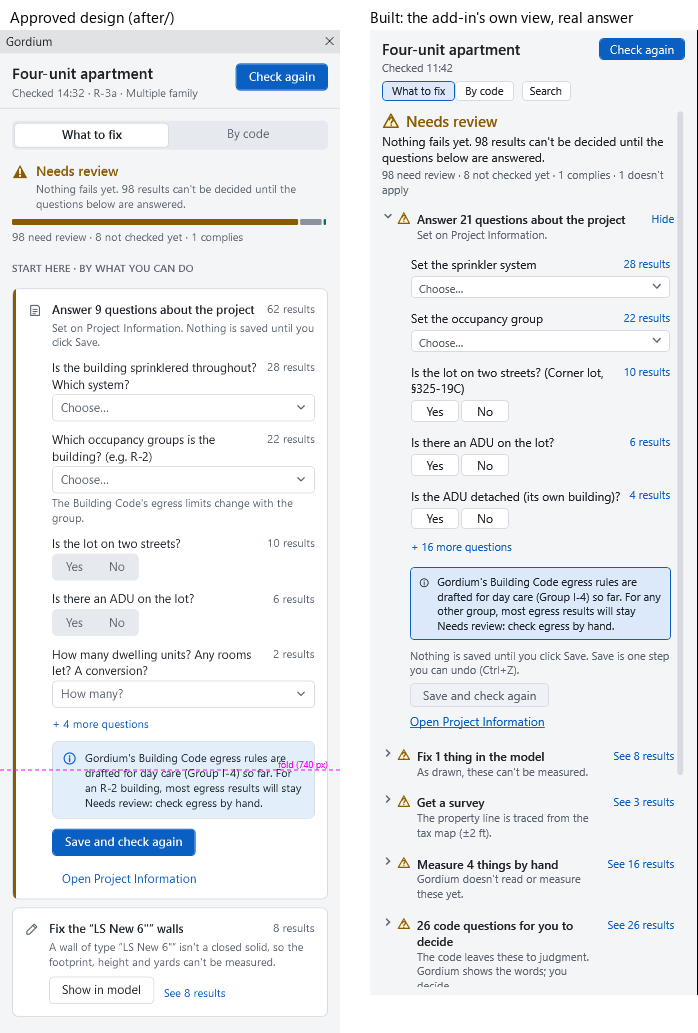
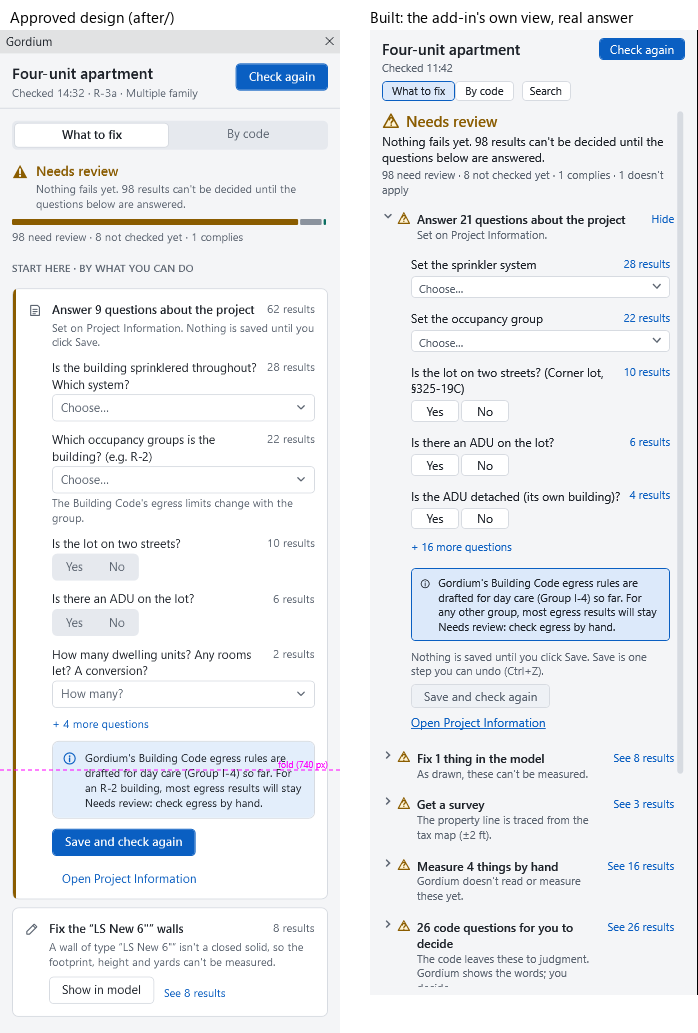
fix: review round 1: a partly saved answer set says what was saved (Ctrl+Z undoes it), the keyboard answers a question and reaches Save, the detail's Answer opens the result's own questions (past + N more too), a length question says its unit

diff --git a/apps/revit_addin/src/Gordium.Revit.Addin/ResultsView.cs b/apps/revit_addin/src/Gordium.Revit.Addin/ResultsView.cs
@@ -1073,7 +1073,7 @@ internal sealed class ResultsView : C.UserControl, IListHost, IDetailHost, ICaus
         if (_list.SelectedItem is not RowItem row)
         {
             // a heading is never the selection; an opener of the two views is (the keyboard is on it), sent to Revit never
-            if (!_quiet && _list.SelectedItem is not null and not (FixGroupItem or FixCardItem or CodeNodeItem or QuestionItem or MoreQuestionsItem))
+            if (!_quiet && _list.SelectedItem is not null and not (FixGroupItem or FixCardItem or CodeNodeItem or QuestionItem or MoreQuestionsItem or AnswerFootItem))
                 _list.SelectedItem = null;
             return;
         }
@@ -1099,7 +1099,31 @@ internal sealed class ResultsView : C.UserControl, IListHost, IDetailHost, ICaus
     {
         // only a key on a row, or on the list itself: never one meant for a fold after the rows (Space on Details)
         var on = Within<C.ListBoxItem>(e.OriginalSource)?.DataContext;
-        if (!ResultList.ListTakesKey(onRow: on is RowItem or FixGroupItem or FixCardItem or CodeNodeItem or QuestionItem or MoreQuestionsItem,
+        // in a question's controls: Tab and Shift+Tab move between them (Yes, No), Esc goes back to its line in the list
+        // (the list takes Tab once: without this the keyboard could never reach No; review round 1)
+        if (on is QuestionItem && OwnKeys(e.OriginalSource) && Within<C.ListBoxItem>(e.OriginalSource) is { } inItem)
+        {
+            if (e.Key == I.Key.Escape)
+            {
+                inItem.Focus();
+                e.Handled = true;
+                return;
+            }
+            if (e.Key == I.Key.Tab)
+            {
+                var controls = Controls(inItem);
+                var here = controls.FindIndex(c => c.IsKeyboardFocusWithin);
+                var shift = (I.Keyboard.Modifiers & I.ModifierKeys.Shift) != 0;
+                var to = here + (shift ? -1 : 1);
+                if (here >= 0 && to >= 0 && to < controls.Count)
+                {
+                    controls[to].Focus();
+                    e.Handled = true;
+                    return;
+                }
+            }
+        }
+        if (!ResultList.ListTakesKey(onRow: on is RowItem or FixGroupItem or FixCardItem or CodeNodeItem or QuestionItem or MoreQuestionsItem or AnswerFootItem,
                                      onList: ReferenceEquals(e.OriginalSource, _list)))
             return;
         // a key in a question's own control (its dropdown, its box, its Yes / No) is the control's: never the list's
@@ -1107,8 +1131,22 @@ internal sealed class ResultsView : C.UserControl, IListHost, IDetailHost, ICaus
         if (OwnKeys(e.OriginalSource))
             return;
         var ctrl = (I.Keyboard.Modifiers & I.ModifierKeys.Control) != 0;
-        // an opener of the two views: the key opens or folds it, as a click does, and the keyboard stays on it
+        // a question: Enter or Space goes into its control; the card's foot: Enter or Space saves (review round 1)
         var at = _list.SelectedIndex;
+        if (!ctrl && at >= 0 && at < _entries.Count && ResultViewList.EntersControl(_entries[at], e.Key.ToString())
+            && _list.ItemContainerGenerator.ContainerFromIndex(at) is C.ListBoxItem item)
+        {
+            Controls(item).FirstOrDefault()?.Focus();
+            e.Handled = true;
+            return;
+        }
+        if (!ctrl && at >= 0 && at < _entries.Count && ResultViewList.Saves(_entries[at], e.Key.ToString()) && _entries[at] is AnswerFootEntry foot)
+        {
+            SaveAnswers(foot.Questions);
+            e.Handled = true;
+            return;
+        }
+        // an opener of the two views: the key opens or folds it, as a click does, and the keyboard stays on it
         if (!ctrl && at >= 0 && at < _entries.Count && ResultViewList.KeyToggles(_entries[at], e.Key.ToString()) is { } toggles)
         {
             ToggleOpen(toggles);
@@ -1139,6 +1177,10 @@ internal sealed class ResultsView : C.UserControl, IListHost, IDetailHost, ICaus
 
     /// <summary>Whether a key's source is a control inside an entry that takes keys itself (a dropdown, a text box, a
     /// button): the list leaves the key to it.</summary>
+    /// <summary>A question's own controls, in order (its dropdown, its Yes and No, its box).</summary>
+    private static List<C.Control> Controls(W.DependencyObject item) =>
+        [.. Descendants(item).OfType<C.Control>().Where(c => c is C.ComboBox or C.Primitives.ToggleButton or C.TextBox && c.TemplatedParent is null && c.IsVisible && c.Focusable)];
+
     internal static bool OwnKeys(object? source) =>
         Within<C.ComboBox>(source) is not null || Within<C.TextBox>(source) is not null || Within<C.Primitives.ButtonBase>(source) is not null;
 
@@ -1375,16 +1417,18 @@ internal sealed class ResultsView : C.UserControl, IListHost, IDetailHost, ICaus
     /// keyboard on it (the view chosen for the project is not changed by this).</summary>
     public void Answer()
     {
-        if (_content?.Model?.Views is not { } views || views.Fix.FirstOrDefault(g => g.Kind == FixKind.Answer) is not { } group)
+        if (_content?.Model?.Views is not { } views || _detailId is not { } id || ResultViewList.AnswerKeys(views, id) is not { Count: > 0 } keys)
             return;
         _detailId = null;
         _bodyHost.Child = _results;
         _view = ResultsViewKind.WhatToFix;
-        _openView.Add(ResultViewList.GroupKey(group));
+        _openView.UnionWith(keys);
         ShowSearch(false);
         Chips(Stale);
         Relayout();
-        FocusEntry(_items.FindIndex(i => i is FixGroupItem g && g.Entry.Group.Kind == FixKind.Answer));
+        // the keyboard on the result's first question (review round 1), else the group
+        var first = _items.FindIndex(i => i is QuestionItem q && q.Entry.Question.Card.Rows.Any(r => r.Id == id));
+        FocusEntry(first >= 0 ? first : _items.FindIndex(i => i is FixGroupItem g && g.Entry.Group.Kind == FixKind.Answer));
     }
 
     // ---- the questions card (UI polish changes 22, 23; IListHost) --------------------------------------------

diff --git a/apps/revit_addin/tests/Gordium.Revit.Reading.Tests/DetailPageTests.cs b/apps/revit_addin/tests/Gordium.Revit.Reading.Tests/DetailPageTests.cs
@@ -231,10 +231,79 @@ public sealed class DetailPageTests
         // the keyboard stops on a question and on "+ N more", and opens them
         Assert.True(ResultList.Stops(first.OfType<QuestionEntry>().First()));
         Assert.Equal(more.Key, ResultViewList.KeyToggles(more, "Enter"));
-        Assert.False(ResultList.Stops(foot));
+        // review round 1: the keyboard answers a question (Enter goes into its control, Right opens its results) and
+        // reaches Save (the foot is a stop, Enter saves)
+        var question = first.OfType<QuestionEntry>().First(q => q.Question.Field is not null);
+        Assert.True(ResultViewList.EntersControl(question, "Enter"));
+        Assert.True(ResultViewList.EntersControl(question, "Space"));
+        Assert.Null(ResultViewList.KeyToggles(question, "Enter"));
+        Assert.Equal(question.Key, ResultViewList.KeyToggles(question, "Right"));
+        Assert.True(ResultList.Stops(foot));
+        Assert.True(ResultViewList.Saves(foot, "Enter"));
+        Assert.False(ResultViewList.Saves(question, "Enter"));
+        Assert.Contains("Save and check again", ResultViewList.Spoken(foot), StringComparison.Ordinal);
+        var view = File.ReadAllText(Path.Combine(Env.Repo, "apps", "revit_addin", "src", "Gordium.Revit.Addin", "ResultsView.cs"));
+        Assert.Contains("ResultViewList.EntersControl(_entries[at], e.Key.ToString())", view, StringComparison.Ordinal);
+        Assert.Contains("ResultViewList.Saves(_entries[at], e.Key.ToString())", view, StringComparison.Ordinal);
+        Assert.Contains("or AnswerFootItem => \"list.opener\"",
+                        File.ReadAllText(Path.Combine(Env.Repo, "apps", "revit_addin", "src", "Gordium.Revit.Addin", "ResultsList.cs")), StringComparison.Ordinal);
         // without the fields (not read): the cards as before
         Assert.Contains(ResultViewList.Layout(m.Views!, ResultList.Place(m), ResultsViewKind.WhatToFix, open, null, null, false),
                         e => e is FixCardEntry { Card.Kind: FixKind.Answer });
+    }
+
+    /// <summary>Review round 1: the detail's "Answer N questions" opens the questions card so the result's own questions
+    /// show, even one past the first few (behind "+ N more questions").</summary>
+    [Fact]
+    public void Answer_opens_the_card_so_the_results_own_questions_show()
+    {
+        var m = Apartment();
+        var answers = Answers(m);
+        var fields = Fields();
+        foreach (var row in answers.Rows)
+        {
+            var keys = ResultViewList.AnswerKeys(m.Views!, row.Id);
+            Assert.Contains(ResultViewList.GroupKey(answers), keys);
+            var shown = ResultViewList.Layout(m.Views!, ResultList.Place(m), ResultsViewKind.WhatToFix, keys.ToHashSet(), null, null, false, fields)
+                                      .OfType<QuestionEntry>().Select(q => q.Question.Card).ToList();
+            Assert.All(answers.Cards.Where(c => c.Rows.Any(r => r.Id == row.Id)), c => Assert.Contains(c, shown));
+        }
+        // a row whose question is past the first five: "+ N more" opened for it
+        var late = answers.Cards.Skip(ProjectQuestions.ShownAtFirst).SelectMany(c => c.Rows).First();
+        Assert.Contains(ResultViewList.MoreQuestionsKey, ResultViewList.AnswerKeys(m.Views!, late.Id));
+        // a row that asks no question: nothing to open
+        var none = ResultList.Place(m).First(p => answers.Rows.All(r => r.Id != p.Row.Id)).Row.Id;
+        Assert.Empty(ResultViewList.AnswerKeys(m.Views!, none));
+    }
+
+    /// <summary>Review round 1: a Save Revit took only part of says what it saved (and that Ctrl+Z undoes it), never
+    /// that the answers weren't saved; a Save that wrote nothing says so.</summary>
+    [Fact]
+    public void A_partly_saved_answer_set_says_what_was_saved()
+    {
+        var part = PaneWords.AnswersNotSaved(["Gordium: Sprinkler system isn't on Project Information"], 1, "Committed");
+        Assert.StartsWith("Saved 1 (Ctrl+Z undoes it)", part, StringComparison.Ordinal);
+        Assert.DoesNotContain("weren't saved", part, StringComparison.Ordinal);
+        Assert.Contains("Nothing was checked", part, StringComparison.Ordinal);
+        var none = PaneWords.AnswersNotSaved(["x"], 0, "RolledBack");
+        Assert.StartsWith("Your answers weren't saved", none, StringComparison.Ordinal);
+        Assert.Contains("PaneWords.AnswersNotSaved(refused, applied.Count, status)",
+                        File.ReadAllText(Path.Combine(Env.Repo, "apps", "revit_addin", "src", "Gordium.Revit.Addin", "ResultsPane.cs")), StringComparison.Ordinal);
+    }
+
+    /// <summary>Review round 1: a length question says its unit beside the box (the project's, as the Setup form's
+    /// label does), so "20" in a metric project is never read in a unit the architect didn't see.</summary>
+    [Fact]
+    public void A_length_question_says_its_unit()
+    {
+        var list = File.ReadAllText(Path.Combine(Env.Repo, "apps", "revit_addin", "src", "Gordium.Revit.Addin", "ResultsList.cs"));
+        Assert.Contains("var unit = f.Kind == FieldKind.Feet ? f.LengthUnit : null;", list, StringComparison.Ordinal);
+        Assert.Contains("unit.Known ? unit.Symbol :", list, StringComparison.Ordinal);
+        var metric = SetupScreen.Build(new RevitModel { Document = "m.rvt", Marked = [], ProjectMarks = new Dictionary<Guid, MarkValue>(),
+                                                        DisplayUnits = "autodesk.unit.unit:meters-1.0.1" }, [], null).Fields;
+        var stream = ProjectQuestions.FieldFor("facts.stream_distance", metric);
+        Assert.Equal(FieldKind.Feet, stream!.Kind);
+        Assert.Equal("m", stream.LengthUnit.Symbol);
     }
 
     [Fact]

diff --git a/apps/revit_addin/tests/Gordium.Revit.Reading.Tests/ResultListTests.cs b/apps/revit_addin/tests/Gordium.Revit.Reading.Tests/ResultListTests.cs
@@ -340,18 +340,17 @@ public sealed class ResultListTests
         Assert.StartsWith("    private void ListKeys(object sender, I.KeyEventArgs e)\n    {\n        // only a key on a row, or on the list itself", keys, StringComparison.Ordinal);
         // a row, or an opener of the two results views (UI polish PR 3 review round 1: the keyboard opens what a click does);
         // never a fold after the rows
-        Assert.Contains("var on = Within<C.ListBoxItem>(e.OriginalSource)?.DataContext;\n" +
-                        "        if (!ResultList.ListTakesKey(onRow: on is RowItem or FixGroupItem or FixCardItem or CodeNodeItem or QuestionItem or MoreQuestionsItem,\n" +
+        Assert.Contains("var on = Within<C.ListBoxItem>(e.OriginalSource)?.DataContext;\n", keys, StringComparison.Ordinal);
+        Assert.Contains("        if (!ResultList.ListTakesKey(onRow: on is RowItem or FixGroupItem or FixCardItem or CodeNodeItem or QuestionItem or MoreQuestionsItem or AnswerFootItem,\n" +
                         "                                     onList: ReferenceEquals(e.OriginalSource, _list)))\n            return;", keys, StringComparison.Ordinal);
         Assert.DoesNotContain("FoldItem", keys[..keys.IndexOf("return;", StringComparison.Ordinal)], StringComparison.Ordinal);
         // the add-in half of the keyboard fix (review round 2): an opener is focusable and drawn where the keyboard is,
         // it stays selected (never sent to Revit), and a key on it opens or folds it with the keyboard kept on it
-        Assert.Contains("var at = _list.SelectedIndex;\n" +
-                        "        if (!ctrl && at >= 0 && at < _entries.Count && ResultViewList.KeyToggles(_entries[at], e.Key.ToString()) is { } toggles)\n" +
+        Assert.Contains("        if (!ctrl && at >= 0 && at < _entries.Count && ResultViewList.KeyToggles(_entries[at], e.Key.ToString()) is { } toggles)\n" +
                         "        {\n            ToggleOpen(toggles);\n            FocusEntry(at);", keys, StringComparison.Ordinal);
         var selected = view[view.IndexOf("    private void Selected()", StringComparison.Ordinal)..];
-        Assert.Contains("_list.SelectedItem is not null and not (FixGroupItem or FixCardItem or CodeNodeItem or QuestionItem or MoreQuestionsItem)", selected[..selected.IndexOf("_select(", StringComparison.Ordinal)], StringComparison.Ordinal);
-        Assert.Contains("FixGroupItem or FixCardItem or CodeNodeItem or QuestionItem or MoreQuestionsItem => \"list.opener\"", Addin("ResultsList.cs"), StringComparison.Ordinal);
+        Assert.Contains("_list.SelectedItem is not null and not (FixGroupItem or FixCardItem or CodeNodeItem or QuestionItem or MoreQuestionsItem or AnswerFootItem)", selected[..selected.IndexOf("_select(", StringComparison.Ordinal)], StringComparison.Ordinal);
+        Assert.Contains("FixGroupItem or FixCardItem or CodeNodeItem or QuestionItem or MoreQuestionsItem or AnswerFootItem => \"list.opener\"", Addin("ResultsList.cs"), StringComparison.Ordinal);
         var stylesText = File.ReadAllText(Path.Combine(Env.Repo, "apps", "revit_addin", "src", "Gordium.Revit.Addin", "PanelStyles.xaml"));
         var opener = stylesText[stylesText.IndexOf("x:Key=\"list.opener\"", StringComparison.Ordinal)..];
         opener = opener[..opener.IndexOf("</Style>", StringComparison.Ordinal)];

diff --git a/apps/revit_addin/src/Gordium.Revit.Reading/ResultViewList.cs b/apps/revit_addin/src/Gordium.Revit.Reading/ResultViewList.cs
@@ -176,6 +176,9 @@ public static class ResultViewList
         };
         if (k is null || !canOpen)
             return null;
+        // a question with a control: Enter and Space go into its control (EntersControl), Right and Left open its results
+        if (e is QuestionEntry { Question.Field: not null } && key is "Enter" or "Return" or "Space")
+            return null;
         return key switch
         {
             "Enter" or "Return" or "Space" => k,
@@ -183,6 +186,31 @@ public static class ResultViewList
             "Left" when open => k,
             _ => null,
         };
+    }
+
+    /// <summary>Whether a key on <paramref name="e"/> moves the keyboard into the question's own control (its dropdown,
+    /// Yes / No or box: review round 1, the keyboard could reach a question but never answer it): Enter or Space on a
+    /// question Gordium has a field for.</summary>
+    public static bool EntersControl(ListEntry e, string key) =>
+        e is QuestionEntry { Question.Field: not null } && key is "Enter" or "Return" or "Space";
+
+    /// <summary>Whether a key on <paramref name="e"/> presses the questions card's Save and check again (Enter or Space
+    /// on its foot, which the keyboard stops on: review round 1).</summary>
+    public static bool Saves(ListEntry e, string key) => e is AnswerFootEntry && key is "Enter" or "Return" or "Space";
+
+    /// <summary>The keys to open so a result's questions show in the questions card (the detail's "Answer N
+    /// questions": review round 1, a result's question past the first few was left behind "+ N more questions"): the
+    /// "Answer" group, and "+ N more" when any of the result's questions is past the first few; empty when the result
+    /// asks no question.</summary>
+    public static IReadOnlyList<string> AnswerKeys(ResultViewsModel model, string rowId)
+    {
+        ArgumentNullException.ThrowIfNull(model);
+        if (model.Fix.FirstOrDefault(g => g.Kind == FixKind.Answer) is not { } group)
+            return [];
+        var at = group.Cards.Select((c, i) => (c, i)).Where(x => x.c.Rows.Any(r => r.Id == rowId)).Select(x => x.i).ToList();
+        if (at.Count == 0)
+            return [];
+        return at.Any(i => i >= ProjectQuestions.ShownAtFirst) ? [GroupKey(group), MoreQuestionsKey] : [GroupKey(group)];
     }
 
     /// <summary>What a screen reader says for an opener (review round 5: on the list item the keyboard is on, not
@@ -196,6 +224,7 @@ public static class ResultViewList
         QuestionEntry q => $"{q.Question.Card.Headline}, {ProjectQuestions.Affects(q.Question.Affects)}"
                            + (q.Question.Field is null ? ", " + ProjectQuestions.NoField : "") + (q.Open ? ", results shown" : ""),
         MoreQuestionsEntry m => ProjectQuestions.MoreWords(m.Hidden, m.Open),
+        AnswerFootEntry f => "Save and check again: Enter saves the answers chosen in this card. " + ProjectQuestions.NothingSaved,
         _ => null,
     };
 

diff --git a/apps/revit_addin/src/Gordium.Revit.Addin/ResultsList.cs b/apps/revit_addin/src/Gordium.Revit.Addin/ResultsList.cs
@@ -116,6 +116,8 @@ internal sealed class MoreQuestionsItem(IListHost host, MoreQuestionsEntry entry
 internal sealed class AnswerFootItem(IListHost host, AnswerFootEntry entry) : ListItem(host)
 {
     internal AnswerFootEntry Entry { get; } = entry;
+
+    internal override string? Spoken => ResultViewList.Spoken(Entry);
 }
 
 /// <summary>The list's first entry: the worker's state and counts, made afresh each time it scrolls into view.</summary>
@@ -163,7 +165,7 @@ internal sealed class EntryStyles : C.StyleSelector
         return (W.Style)c.FindResource(item switch
         {
             RowItem => "list.row",
-            FixGroupItem or FixCardItem or CodeNodeItem or QuestionItem or MoreQuestionsItem => "list.opener",   // reached and opened by the keyboard too
+            FixGroupItem or FixCardItem or CodeNodeItem or QuestionItem or MoreQuestionsItem or AnswerFootItem => "list.opener",   // reached and opened by the keyboard too
             _ => "list.heading",
         });
     }
@@ -410,7 +412,10 @@ public sealed class EntryView : C.Border
                     Text = shown ?? "", Margin = new W.Thickness(0, 4, 0, 0), MinWidth = number ? 90 : 0, MaxWidth = number ? 120 : double.PositiveInfinity,
                     HorizontalAlignment = number ? W.HorizontalAlignment.Left : W.HorizontalAlignment.Stretch,
                 };
-                W.Automation.AutomationProperties.SetName(text, name);
+                // a length is typed in the project's unit, said beside the box as the Setup form's label says it
+                // (review round 1: "20" in a metric project is 20 m), and feet when Gordium can't read the project's
+                var unit = f.Kind == FieldKind.Feet ? f.LengthUnit : null;
+                W.Automation.AutomationProperties.SetName(text, unit is null ? name : $"{name}, in {unit.Words}");
                 // the draft follows every keystroke (an emptied box chooses nothing), Save's words with it
                 text.TextChanged += (_, _) =>
                 {
@@ -420,7 +425,14 @@ public sealed class EntryView : C.Border
                         host.Answers.Choose(f.Mark, text.Text);
                     host.Answered();
                 };
-                return text;
+                if (unit is null)
+                    return text;
+                var row = new C.StackPanel { Orientation = C.Orientation.Horizontal };
+                row.Children.Add(text);
+                var symbol = Muted(unit.Known ? unit.Symbol : $"{unit.Symbol} (this project's units aren't ones Gordium reads: type feet)");
+                symbol.Margin = new W.Thickness(6, 6, 0, 0);
+                row.Children.Add(symbol);
+                return row;
             }
         }
     }

diff --git a/apps/revit_addin/src/Gordium.Revit.Reading/PaneWords.cs b/apps/revit_addin/src/Gordium.Revit.Reading/PaneWords.cs
@@ -28,14 +28,18 @@ public static class PaneWords
         return s.Length == 0 ? s : char.ToUpperInvariant(s[0]) + s[1..];
     }
 
-    /// <summary>Why the questions card's answers weren't saved (a write Revit refused, or the transaction not
-    /// committed): nothing was checked, and the answers stay chosen in the card.</summary>
-    public static string AnswersNotSaved(IReadOnlyList<string> refused, string status)
+    /// <summary>What the questions card's Save says when Revit didn't take every answer (a write refused, or the
+    /// transaction not committed): what was saved, if anything (one Ctrl+Z undoes it: review round 1, a partly saved
+    /// set was said as "weren't saved" while Project Information had changed), what wasn't, and that nothing was
+    /// checked.</summary>
+    public static string AnswersNotSaved(IReadOnlyList<string> refused, int applied, string status)
     {
         ArgumentNullException.ThrowIfNull(refused);
-        return "Your answers weren't saved, so nothing was checked" +
-               (refused.Count > 0 ? $": {string.Join("; ", refused)}." : $" (Revit didn't take the change: {status}).") +
-               " They are still chosen in the card: try Save again.";
+        var saved = applied > 0 && status == "Committed";
+        var why = refused.Count > 0 ? string.Join("; ", refused) : $"Revit didn't take the change ({status})";
+        return saved
+            ? $"Saved {applied} (Ctrl+Z undoes it), but not written: {why}. Nothing was checked: answer the rest, then Save again."
+            : $"Your answers weren't saved, so nothing was checked: {why}. They are still chosen in the card: try Save again.";
     }
 
     /// <summary>"a", "a and b", "a, b and c".</summary>

diff --git a/apps/revit_addin/src/Gordium.Revit.Reading/ResultList.cs b/apps/revit_addin/src/Gordium.Revit.Reading/ResultList.cs
@@ -353,7 +353,7 @@ public static class ResultList
 
     /// <summary>The entries Up and Down stop on: a row, and an opener of the two results views (a group, a card, a node
     /// of the law's tree), so a keyboard reaches every result (UI polish PR 3 review round 1).</summary>
-    public static bool Stops(ListEntry e) => e is ListRowEntry or FixGroupEntry or FixCardEntry or CodeNodeEntry or QuestionEntry or MoreQuestionsEntry;
+    public static bool Stops(ListEntry e) => e is ListRowEntry or FixGroupEntry or FixCardEntry or CodeNodeEntry or QuestionEntry or MoreQuestionsEntry or AnswerFootEntry;
 
     /// <summary>A row's second line in the list (its first is its glyph, name and section): its verdict's words when its
     /// place's heading doesn't already say them ("not checked", "not applicable", a word the add-in doesn't know: "needs

diff --git a/apps/revit_addin/src/Gordium.Revit.Reading/ProjectQuestions.cs b/apps/revit_addin/src/Gordium.Revit.Reading/ProjectQuestions.cs
@@ -28,9 +28,6 @@ public static class ProjectQuestions
     /// <summary>What a question Gordium has no field for says.</summary>
     public const string NoField = "Gordium has no field for this in Revit yet. Decide it by hand from its results.";
 
-    /// <summary>What the street edge's question says (it is picked on the plan, in Setup).</summary>
-    public const string PickInSetup = "The street edge is picked on the plan: use Set up on the ribbon.";
-
     /// <summary>The questions of an "Answer" group, in its cards' order (the most results first), each with its field.</summary>
     public static IReadOnlyList<ProjectQuestion> Of(FixGroup group, IReadOnlyList<SetupField>? fields)
     {

diff --git a/apps/revit_addin/src/Gordium.Revit.Addin/ResultsPane.cs b/apps/revit_addin/src/Gordium.Revit.Addin/ResultsPane.cs
@@ -52,7 +52,7 @@ internal sealed class ResultsPane : IDockablePaneProvider
         });
         if (refused.Count > 0 || status is not ("Committed" or "Nothing"))
         {
-            Say(PaneWords.AnswersNotSaved(refused, status));
+            Say(PaneWords.AnswersNotSaved(refused, applied.Count, status));
             return;
         }
         Say(applied.Count == 0 ? "" : $"Saved {applied.Count} (Ctrl+Z undoes it).");
